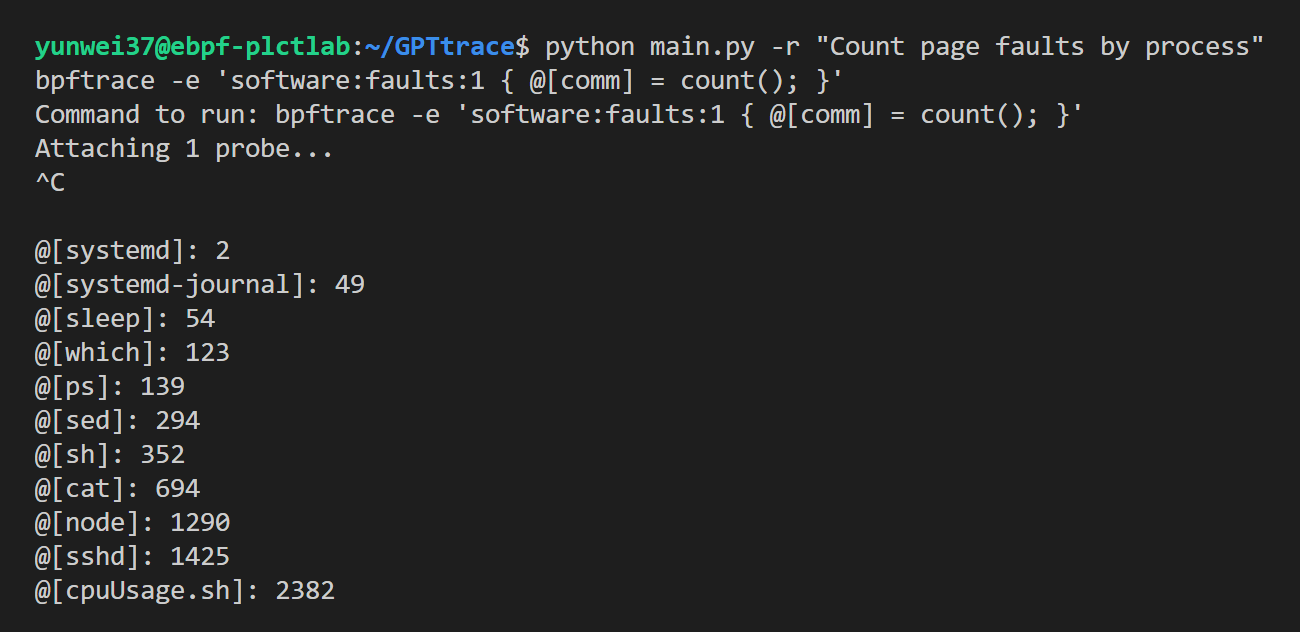
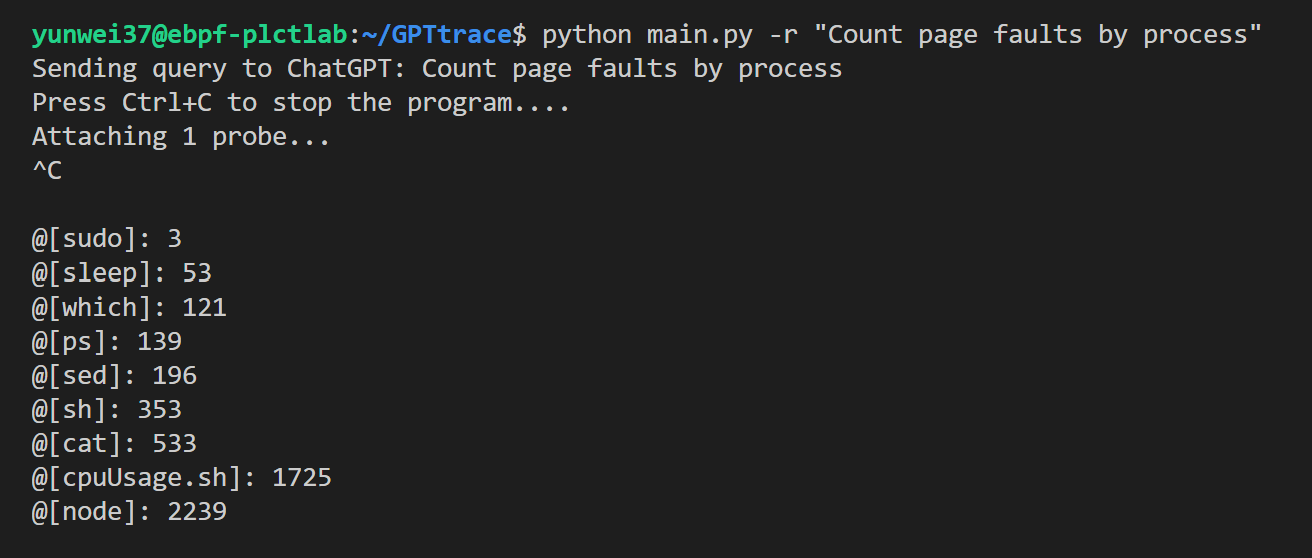
fix output bpftrace commands

diff --git a/main.py b/main.py
@@ -20,6 +20,8 @@ def main():
     group.add_argument(
         "-e", "--explain", help="Let ChatGPT explain what's eBPF", action="store_true")
     group.add_argument(
+        "-v", "--verbose", help="Print the receive ", action="store_true")
+    group.add_argument(
         "-r", "--run", help="Generate commands using your input with ChatGPT, and run it", action="store", metavar="TEXT")
 
     parser.add_argument(
@@ -40,13 +42,15 @@ def main():
         return
     chatbot = Chatbot(config={"access_token": access_token})
     if args.explain:
-        generate_result(chatbot, "解释一下什么是 eBPF", conv_uuid, True)
+        generate_result(chatbot, "Explain what's eBPF", conv_uuid, True)
     elif args.run is not None:
         desc: str = args.run
-        ret_val = generate_result(chatbot, desc, conv_uuid, True)
+        print("Sending query to ChatGPT: " + desc)
+        ret_val = generate_result(chatbot, construct_prompt(desc), conv_uuid, args.verbose)
         # print(ret_val)
         parsed = make_executable_command(ret_val)
-        print(f"Command to run: {parsed}")
+        # print(f"Command to run: {parsed}")
+        print("Press Ctrl+C to stop the program....")
         os.system("sudo " + parsed)
 
 def construct_prompt(text: str) -> str:
@@ -74,10 +78,9 @@ def make_executable_command(command: str) -> str:
 def generate_result(bot: Chatbot, text: str, session: str = None, print_out: bool = False) -> str:
     from io import StringIO
     prev_text = ""
-    query_text = construct_prompt(text)
     buf = StringIO()
     for data in bot.ask(
-        query_text, conversation_id=session
+        text, conversation_id=session
     ):
         message = data["message"][len(prev_text):]
         if print_out:

diff --git a/README.md b/README.md
@@ -2,21 +2,28 @@
 
 Generate eBPF programs and tracing with ChatGPT and natural language
 
-For example:
+## Introduction
+
+- Tracing with natural language
 
 ![result](doc/result.png)
+
+- Generate eBPF programs with natural language
+
+
 
 ## Usage
 
 ```console
-python main.py
-usage: GPTtrace [-h] [-e | -r TEXT] [-u UUID] [-t ACCESS_TOKEN]
+$ python main.py
+usage: GPTtrace [-h] [-e | -v | -r TEXT] [-u UUID] [-t ACCESS_TOKEN]
 
 Use ChatGPT to write eBPF programs (bpftrace, etc.)
 
 optional arguments:
   -h, --help            show this help message and exit
   -e, --explain         Let ChatGPT explain what's eBPF
+  -v, --verbose         Print the receive
   -r TEXT, --run TEXT   Generate commands using your input with ChatGPT, and run it
   -u UUID, --uuid UUID  Conversion UUID to use, or passed through environment variable `GPTTRACE_CONV_UUID`
   -t ACCESS_TOKEN, --access-token ACCESS_TOKEN
@@ -36,3 +43,9 @@ optional arguments:
 - Count LLC cache misses by process name and PID (uses PMCs):
 - Profile user-level stacks at 99 Hertz, for PID 189:
 - Files opened, for processes in the root cgroup-v2
+
+## 🔗 Links
+
+- detail documents and tutorials about how we train ChatGPT to write eBPF programs: https://github.com/eunomia-bpf/bpf-developer-tutorial （基于 CO-RE (一次编写，到处运行） libbpf 的 eBPF 开发者教程：通过 20 个小工具一步步学习 eBPF（尝试教会 ChatGPT 编写 eBPF 程序）
+- bpftrace: https://github.com/iovisor/bpftrace
+- ChatGPT: https://chat.openai.com/
